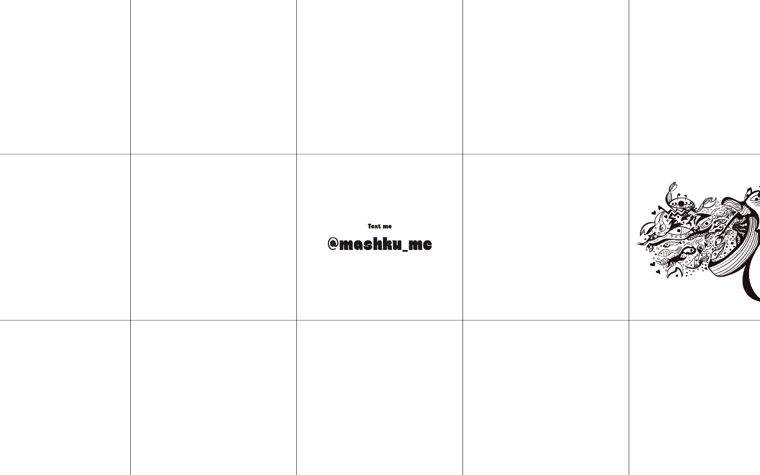
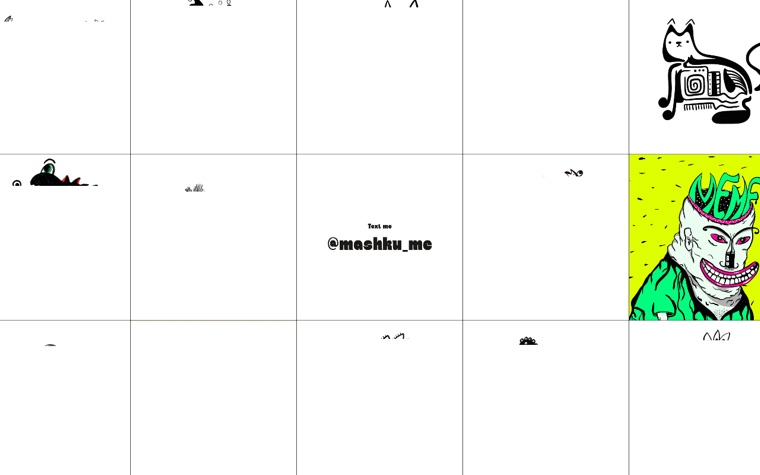
fix: розовая тема — белый контент; надёжная специфичность тем; превью Mashku Art
- розовая тема: контент белый (heading/primary), вторичный — светло-розовый;
  поверхность --pink-5 (тёмный берри) под контролы/карточки → контент читаем
- блоки тем → :root[data-appearance='…'] (0,2,0): гарантированно перебивают :root
  (cssnano сливал/переупорядочивал одинаковые --color-text-heading → heading залипал)
- Mashku Art: превью переснято с полной прогрузкой изображений

Refs gitlab#5

diff --git a/src/styles/tokens.css b/src/styles/tokens.css
@@ -13,6 +13,7 @@
   --pink-2: #f3c6d8;
   --pink-3: #ffb3cd;
   --pink-4: #ff6fa5;
+  --pink-5: #8f1d49;
 
   /* ===== BRAND ===== */
   --color-accent: var(--blue-5);
@@ -98,7 +99,8 @@
    темой автоматически — в блоках ниже их дублировать не нужно. */
 
 /* ===== DARK ===== */
-[data-appearance='dark'] {
+/* :root[...] (0,2,0) — гарантированно перебивает :root, не завися от порядка/минификации */
+:root[data-appearance='dark'] {
   --color-accent: var(--blue-2);
   --color-accent-hsl: 245 100% 62%;
   --color-on-accent: var(--gray-0);
@@ -119,8 +121,8 @@
   --shadow-tag: var(--shadow-2);
 }
 
-/* ===== PINK (нежно розовый; праймари — синий) ===== */
-[data-appearance='pink'] {
+/* ===== PINK (насыщенный розовый; праймари — синий) ===== */
+:root[data-appearance='pink'] {
   --color-accent: var(--blue-5); /* праймари на розовой теме — синий */
   --color-accent-hsl: 240 99% 50%;
   --color-on-accent: var(--gray-0);
@@ -129,20 +131,21 @@
   --color-black: #131416;
 
   --color-bg: var(--pink-4); /* насыщенный розовый — как «розовый праймари» синей темы */
-  --color-surface: var(--pink-0);
+  --color-surface: var(--pink-5); /* тёмный берри — под белый контент (карточки, пилюли контролов) */
   --color-glass-hsl: 337 100% 72%;
 
   --buddy-fill: var(--color-accent); /* синий шар на розовом фоне */
 
-  --color-text-primary: var(--gray-9);
-  --color-text-secondary: var(--gray-8);
-  --color-text-heading: var(--gray-10);
+  /* контент белый (по аналогии с синей темой) */
+  --color-text-primary: #ffffff;
+  --color-text-secondary: #ffd9e6;
+  --color-text-heading: #ffffff;
   --color-border: var(--pink-2);
   --shadow-tag: var(--shadow-2);
 }
 
 /* ===== BLUE (бренд-синий фон; праймари — розовый) ===== */
-[data-appearance='blue'] {
+:root[data-appearance='blue'] {
   --color-accent: var(--pink-4); /* праймари на синей теме — розовый */
   --color-accent-hsl: 337 100% 72%;
   --color-on-accent: #131416; /* тёмный текст на розовой акцентной заливке */
